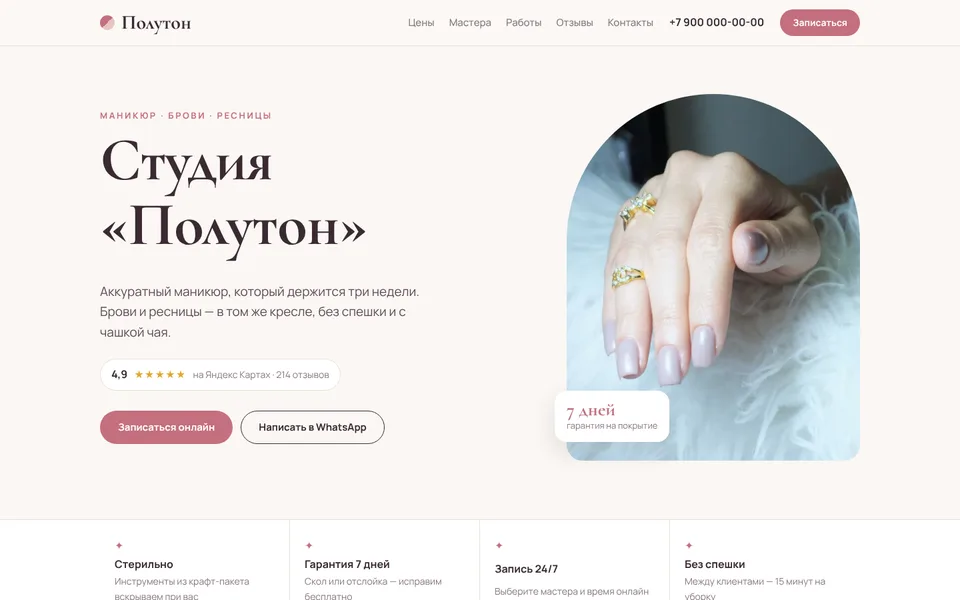
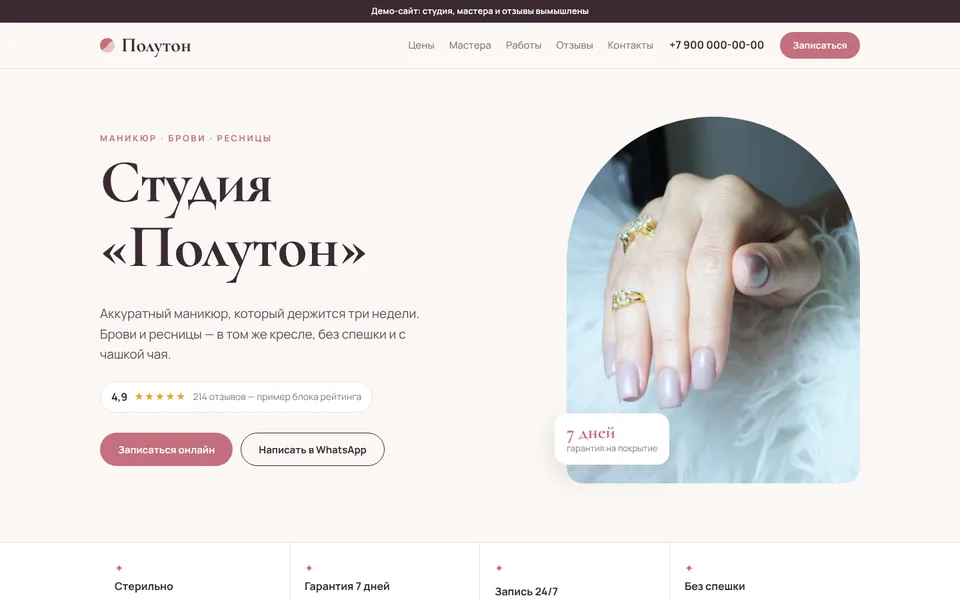
Демо beauty: плашка «Демо-сайт», рейтинг помечен как пример, карта — заглушка без метки
Claude-Session: https://claude.ai/code/session_016Kq5fMh2xmqsMZY6GNinMZ

diff --git a/demos/beauty/styles.css b/demos/beauty/styles.css
@@ -13,7 +13,7 @@
 }
 
 *, *::before, *::after { box-sizing: border-box; }
-html { scroll-behavior: smooth; scroll-padding-top: 80px; overflow-x: clip; }
+html { scroll-behavior: smooth; scroll-padding-top: 110px; overflow-x: clip; }
 body { margin: 0; background: var(--bg); color: var(--ink); font: 16px/1.6 var(--body); -webkit-font-smoothing: antialiased; }
 img, iframe { display: block; max-width: 100%; }
 img { height: auto; }
@@ -37,7 +37,9 @@ p { margin: 0 0 1em; }
 .btn--small { min-height: 40px; padding: 0 18px; font-size: 14px; }
 
 /* Шапка */
-.header { position: sticky; top: 0; z-index: 20; background: rgb(251 247 244 / .92); backdrop-filter: blur(10px); border-bottom: 1px solid var(--line); }
+.topwrap { position: sticky; top: 0; z-index: 20; }
+.demo-bar { padding: 8px 16px; background: var(--ink); color: #fff; text-align: center; font-size: 13px; font-weight: 700; line-height: 1.35; }
+.header { position: relative; background: rgb(251 247 244 / .92); backdrop-filter: blur(10px); border-bottom: 1px solid var(--line); }
 .header__inner { display: flex; align-items: center; gap: 24px; height: 68px; }
 .logo { display: flex; align-items: center; gap: 10px; text-decoration: none; font: 700 30px/1 var(--head); }
 .logo__dot { width: 22px; height: 22px; border-radius: 50%; background: linear-gradient(135deg, var(--rose) 50%, #e8c6bd 50%); }
@@ -129,6 +131,11 @@ p { margin: 0 0 1em; }
 .contacts__btns { display: flex; flex-wrap: wrap; gap: 10px; }
 .contacts__map { overflow: hidden; border-radius: 24px; border: 1px solid var(--line); }
 .contacts__map iframe { width: 100%; height: 420px; border: 0; }
+.map-stub { display: grid; place-content: center; justify-items: center; gap: 12px; height: 420px; padding: 24px; text-align: center; color: var(--muted); background:
+  linear-gradient(90deg, rgb(58 42 51 / .05) 1px, transparent 1px) 0 0 / 40px 40px,
+  linear-gradient(rgb(58 42 51 / .05) 1px, transparent 1px) 0 0 / 40px 40px, var(--soft); }
+.map-stub p { margin: 0; font-weight: 700; }
+.map-stub__pin { width: 28px; height: 28px; border-radius: 50% 50% 50% 0; background: var(--rose); transform: rotate(-45deg); }
 
 .footer { padding: 30px 0 40px; border-top: 1px solid var(--line); color: var(--muted); font-size: 14px; }
 .footer p { margin: 0 0 6px; }
@@ -172,7 +179,7 @@ p { margin: 0 0 1em; }
   .guarantee__seal { width: 96px; height: 96px; }
   .guarantee__seal b { font-size: 40px; }
   .booking__actions .btn { flex: 1 1 100%; }
-  .contacts__map iframe { height: 300px; }
+  .contacts__map iframe, .map-stub { height: 300px; }
   .mobile-bar { display: grid; grid-template-columns: 1fr 1fr; gap: 8px; position: fixed; left: 0; right: 0; bottom: 0; z-index: 30; padding: 8px 10px calc(8px + env(safe-area-inset-bottom)); background: rgb(251 247 244 / .95); border-top: 1px solid var(--line); }
   .mobile-bar a { display: grid; place-items: center; min-height: 46px; border-radius: 999px; background: var(--rose); color: #fff; font-weight: 700; text-decoration: none; }
   .mobile-bar a + a { background: var(--ink); }

diff --git a/demos/beauty/index.html b/demos/beauty/index.html
@@ -17,6 +17,8 @@
   <link rel="stylesheet" href="styles.css">
 </head>
 <body>
+  <div class="topwrap">
+  <div class="demo-bar">Демо-сайт: студия, мастера и отзывы вымышлены</div>
   <header class="header">
     <div class="container header__inner">
       <a href="#top" class="logo" aria-label="Полутон, на главную"><span class="logo__dot" aria-hidden="true"></span>Полутон</a>
@@ -32,6 +34,7 @@
       <button class="burger" aria-label="Меню" aria-controls="nav" aria-expanded="false"><span></span></button>
     </div>
   </header>
+  </div>
 
   <main id="top">
     <section class="hero">
@@ -40,7 +43,7 @@
           <p class="eyebrow">маникюр · брови · ресницы</p>
           <h1>Студия «Полутон»</h1>
           <p class="lead">Аккуратный маникюр, который держится три недели. Брови и ресницы — в том же кресле, без спешки и с чашкой чая.</p>
-          <a class="rating" href="#reviews"><b>4,9</b><span class="rating__stars" aria-hidden="true">★★★★★</span><span>на Яндекс Картах · 214 отзывов</span></a>
+          <a class="rating" href="#reviews"><b>4,9</b><span class="rating__stars" aria-hidden="true">★★★★★</span><span>214 отзывов — пример блока рейтинга</span></a>
           <div class="hero__actions">
             <a href="#booking" class="btn">Записаться онлайн</a>
             <a href="https://wa.me/79000000000" class="btn btn--ghost" target="_blank" rel="noopener">Написать в WhatsApp</a>
@@ -172,7 +175,7 @@
     <section class="section" id="reviews">
       <div class="container">
         <div class="section__head reveal">
-          <p class="eyebrow">Яндекс Карты</p>
+          <p class="eyebrow">Пример блока отзывов</p>
           <h2>4,9 — 214 отзывов</h2>
         </div>
         <div class="reviews">
@@ -215,7 +218,7 @@
           </div>
         </div>
         <div class="contacts__map reveal">
-          <iframe title="Карта: студия «Полутон»" src="https://yandex.ru/map-widget/v1/?ll=30.3609%2C59.9311&amp;z=15&amp;pt=30.3609%2C59.9311%2Cpm2rdm" loading="lazy"></iframe>
+          <div class="map-stub"><span class="map-stub__pin" aria-hidden="true"></span><p>Здесь будет карта Яндекса с вашей точкой</p></div>
         </div>
       </div>
     </section>
